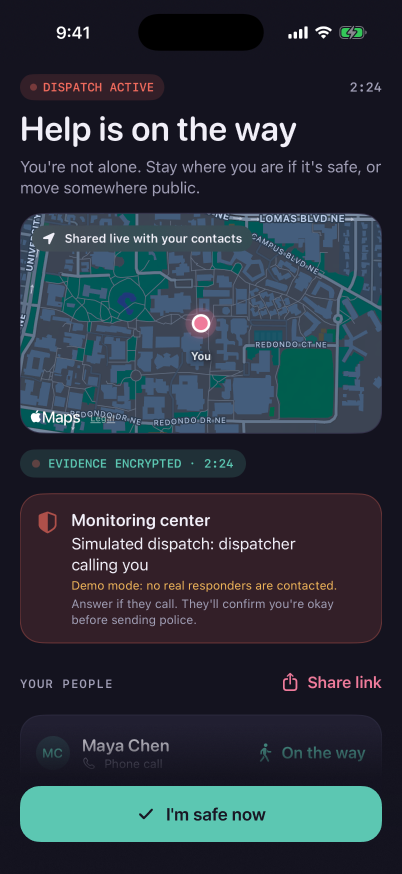
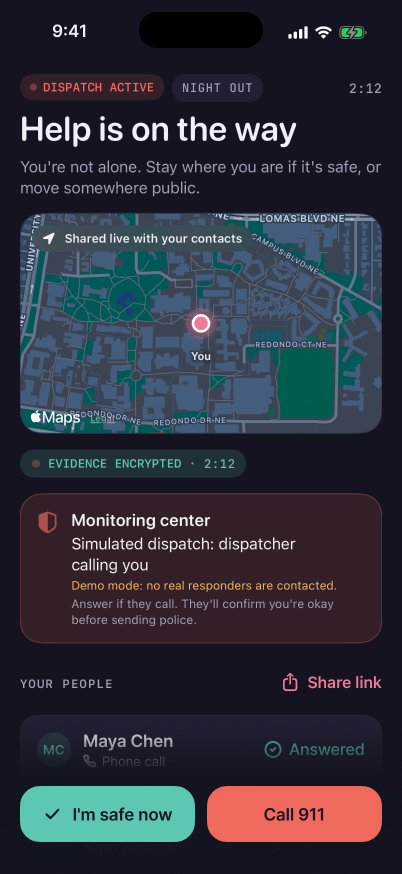
Update docs and Figma exports for the current prototype and app status

diff --git a/docs/STATUS.md b/docs/STATUS.md
@@ -49,7 +49,7 @@ Built and covered by unit tests, but the simulator can't prove these. Check them
 | Backend (Supabase Edge Function `api`, Postgres, pg_cron watchdog) | `backend/` | Live at `https://uvunyysuyuonhoviszmc.supabase.co/functions/v1/api/` (function v3). Cron jobs: watchdog (every minute) and retention (hourly). `account/delete`, SMS delivery receipts and a sign-up rate limit are live. Database holds only the simulator's "Alex" device; no alerts, events or evidence. |
 | Contact live-link page and landing page | `web/` (Vercel project `safetysense-live`) | Live at https://safetysense-live.vercel.app/ and `/a/<token>` |
 | Submission PDFs 1 to 5 | `submission/01-…` to `05-…` (HTML source next to each PDF) | Built. Pages: 1 / 1 / 4 / 6 / 4. The bio has placeholders. |
-| Prototype | Figma file `Mx4ZCAW032658aaX1uD0vp`; link in `submission/06-prototype-link/PROTOTYPE_LINK.md` | 22 frames and 4 flows, wired. **Public** (Anyone · can view), verified signed-out 2026-11-04. |
+| Prototype | Figma file `Mx4ZCAW032658aaX1uD0vp`; link in `submission/06-prototype-link/PROTOTYPE_LINK.md` | 34 screens, 5 overlays and 5 flows, wired (every tappable element has a destination; audit fixes 2026-11-04). **Public** (Anyone · can view), verified signed-out 2026-11-04. |
 | Email draft | `submission/EMAIL_DRAFT.md` | Prototype link is filled in. Mary's email and the extra-credit line are still to fill. |
 | Architecture diagram | `design/architecture.svg` / `.png` | Embedded in PDF 4 and deck slide 10 |
 | App screenshots | `design/screens/` (old integration captures are in `design/screens/archive-integration/`) | Current UI, iPhone 17 Pro and 17e |

diff --git a/docs/SPEC.md b/docs/SPEC.md
@@ -37,7 +37,7 @@ Most of the apps below rely on the person pressing a button or running a timer. 
 | Mode | When | What's on | Default response |
 |---|---|---|---|
 | **Everyday** (default) | Always | No microphone. SOS triggers, trusted contacts, medical info, resources | Manual SOS only |
-| **Walk Home** | Walking to a car, dorm, or bus | Live location to one contact, arrival check, alert if you leave your route or stop for too long. Microphone optional | Contacts alerted if you don't arrive |
+| **Walk Home** | Walking to a car, dorm, or bus | Live location to one contact, arrival check, alert if you leave your route or stop for too long. Microphone optional; with the mic on, distress audio or words go up the full escalation ladder | Contacts alerted if you don't arrive; with the mic on, the full escalation ladder (dispatch policy is configurable per mode) |
 | **Night Out** | Party, bar, concert | Full Guard: on-device audio AI, motion, check-ins every 30–90 min, drink-check prompts, a buddy | Full escalation ladder |
 | **Date** | A first date from an app | Night Out, plus **sealed date details**: their name, photo, profile link and the place, kept encrypted and shown to your contact *only if* an alert fires | Full escalation ladder, plus a scheduled check-in |
 | **Ride** | Uber, Lyft, someone else driving | Log the plate and driver. Alert on route deviation or a stop longer than 3 min in an unexpected place | Check-in, then contacts |

diff --git a/docs/SUBMISSION_CHECKLIST.md b/docs/SUBMISSION_CHECKLIST.md
@@ -13,7 +13,7 @@ Every item except #6 is a **PDF or Word file attached** to the email, never a li
 - [x] 4. Proposed technical aspects + **architecture diagram**: `submission/04-technical-aspects/` → PDF (APIs, feeds, libraries, models, third-party services; diagram embedded)
 - [x] 5. Security: `submission/05-security/` → PDF
 - [x] 6. Prototype link in the email body: Figma link with "Anyone with the link → can view" sharing (public, verified signed-out 2026-11-04). Optionally add a TestFlight public link as a bonus.
-  - Built and wired (22 frames, 4 flows). **Public** ("Anyone · can view", Education Full seat accepted) and verified in a signed-out browser on 2026-11-04. The link is in `submission/EMAIL_DRAFT.md`.
+  - Built and wired (34 screens, 5 overlays, 5 flows; every mode chip and tab works). **Public** ("Anyone · can view", Education Full seat accepted) and verified in a signed-out browser on 2026-11-04. The link is in `submission/EMAIL_DRAFT.md`.
 - [ ] Email body (`submission/EMAIL_DRAFT.md`, drafted; fill Mary's email + extra-credit line): app name, team members with emails and schools, a one-paragraph summary, the prototype link, and a list of the attachments
 - [x] Check that every attachment opens. File names include the app name. (All 5 open; 1/1/4/6/4 pages; re-check the bio after editing.)
 - [ ] Sent ✅ (record the timestamp and message id here)

diff --git a/README.md b/README.md
@@ -19,7 +19,7 @@ Most safety apps rely on you pressing a button or running a timer. In a real ass
 
 ## How it works
 
-1. **Arm.** Start a Guard session from the app, the Action Button, a Lock Screen control, or Siri.
+1. **Arm.** Start a Guard session from the app. The Action Button, a Lock Screen control, or Siri can also start an alert directly, without opening the app (SPEC §7).
 2. **Watch.** The app checks sound events (Apple SoundAnalysis), a safe word and distress phrases (on-device SpeechAnalyzer), motion, location, and whether you answer check-ins. Audio is held in a 30-second buffer in memory and is never written to disk unless an alert fires.
 3. **Decide.** A deterministic, explainable risk engine combines these signals. On supported iPhones, an on-device Foundation Models check gives a second opinion. It can adjust the score but can never trigger an alert alone or block an SOS.
 4. **Respond.** Alerts climb a ladder:
